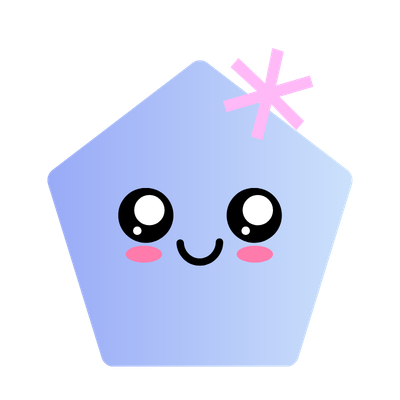
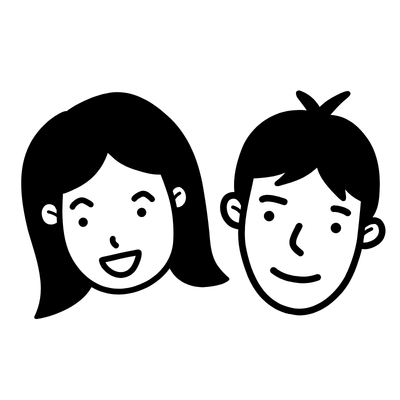
updates

diff --git a/lib/onboarding/diagnostic_results.dart b/lib/onboarding/diagnostic_results.dart
@@ -76,9 +76,9 @@ class _DiagnosticResultsState extends State<DiagnosticResults>
         };
       case DifficultyLevel.advanced:
         return {
-          'bg': AppColors.pinkSurface,
-          'text': AppColors.pink,
-          'border': AppColors.pink.withOpacity(0.4),
+          'bg': AppColors.primary,
+          'text': AppColors.primaryDark,
+          'border': AppColors.primaryLight.withOpacity(0.4),
         };
     }
   }
@@ -120,27 +120,15 @@ class _DiagnosticResultsState extends State<DiagnosticResults>
                   // Profile/Avatar Circle
                   ScaleTransition(
                     scale: _scaleAnim,
-                    child: Container(
-                      width: 100,
-                      height: 100,
-                      decoration: BoxDecoration(
-                        color: AppColors.surface,
-                        shape: BoxShape.circle,
-                        border: Border.all(color: AppColors.border, width: 1.5),
-                      ),
-                      child: ClipRRect(
-                        borderRadius: BorderRadius.circular(50), 
-                        child: Padding(
-                          padding: const EdgeInsets.all(16.0), 
-                          child: Image.asset(
-                            AppAssets.chinguIcon,
-                            fit: BoxFit.contain,
-                          ),
-                        ),
-                      ),
+                    child: Center(
+                      child: Image.asset(
+                      AppAssets.chinguIcon,
+                      width: 160,
+                      height: 160,
+                      fit: BoxFit.contain,
+),
                     ),
                   ),
-                
                   const SizedBox(height: 24),
 
                   Text(

diff --git a/lib/theme/app_theme.dart b/lib/theme/app_theme.dart
@@ -3,23 +3,20 @@ import 'package:google_fonts/google_fonts.dart';
 
 class AppColors {
   // Brand
-  static const primary = Color(0xFF88A2FF); // pastel blue
-  static const primaryDark = Color(0xFF253A82); // deep royal blue
-  static const primaryLight = Color(0xFFC0E0FF); // light blue
-  static const primarySurface = Color(0xFFEAF1FF);
+  // Brand
+  static const primary = Color(0xFF006EE9);       // Blue Raspberry — main blue
+  static const primaryDark = Color(0xFF000181);   // Night Skies — deep navy
+  static const primaryLight = Color(0xFF83E7FF);  // Sunny Skies — light blue
+  static const primarySurface = Color(0xFFEAF6FF);
 
-  // Accent (success / adaptive correct)
-  static const green = Color(0xFFE3FC87);
+  // Accent (violet)
+  static const purple = Color(0xFFE8A0FF);        // Violet
+  static const purpleSurface = Color(0xFFF8EEFF);
+
+  // Accent (powdered lime)
+  static const green = Color(0xFFD0FFA4);         // Powdered Lime
   static const greenDark = Color(0xFF2D7A50);
-  static const greenSurface = Color(0xFFF0FAF5);
-
-  // Accent (info / AI insight)
-  static const purple = Color(0xFFAB9DFF);
-  static const purpleSurface = Color(0xFFEEEDFE);
-
-  // Pink Accent
-  static const pink = Color(0xFFFFB2F7);
-  static const pinkSurface = Color(0xFFFFEEFD);
+  static const greenSurface = Color(0xFFF5FFE8);
 
   // Neutral
   static const background = Color.fromARGB(255, 252, 252, 252);

diff --git a/lib/onboarding/diagnostic_quiz.dart b/lib/onboarding/diagnostic_quiz.dart
@@ -324,7 +324,7 @@ class _DiagnosticScreenState extends State<DiagnosticScreen>
           value: _progress,
           minHeight: 6,
           backgroundColor: AppColors.border,
-          valueColor: AlwaysStoppedAnimation<Color>(AppColors.primary),
+          valueColor: AlwaysStoppedAnimation<Color>(AppColors.primaryLight),
         ),
       ),
     );
@@ -404,7 +404,7 @@ class _DiagnosticScreenState extends State<DiagnosticScreen>
           ],
         ),
         const SizedBox(height: 4),
-        Text('Show your full working — AI will read and evaluate it',
+        Text('Show your full working in the whiteboard below to be evaluated',
             style: GoogleFonts.outfit(
                 fontSize: 12, color: AppColors.textSecondary)),
         const SizedBox(height: 12),
@@ -464,7 +464,7 @@ class _DiagnosticScreenState extends State<DiagnosticScreen>
                   ? const Color(0xFF4CAF50)
                   : _submitted
                       ? AppColors.border
-                      : AppColors.primary,
+                      : AppColors.primaryDark,
               width: 1.5,
             ),
             boxShadow: [

diff --git a/lib/screens/login_screen.dart b/lib/screens/login_screen.dart
@@ -139,7 +139,7 @@ class LoginScreen extends StatelessWidget {
                         TextSpan(
                           text: 'Create an account',
                           style: TextStyle(
-                            color: AppColors.primaryDark,
+                            color: AppColors.purple,
                             fontWeight: FontWeight.w700,
                           ),
                         ),